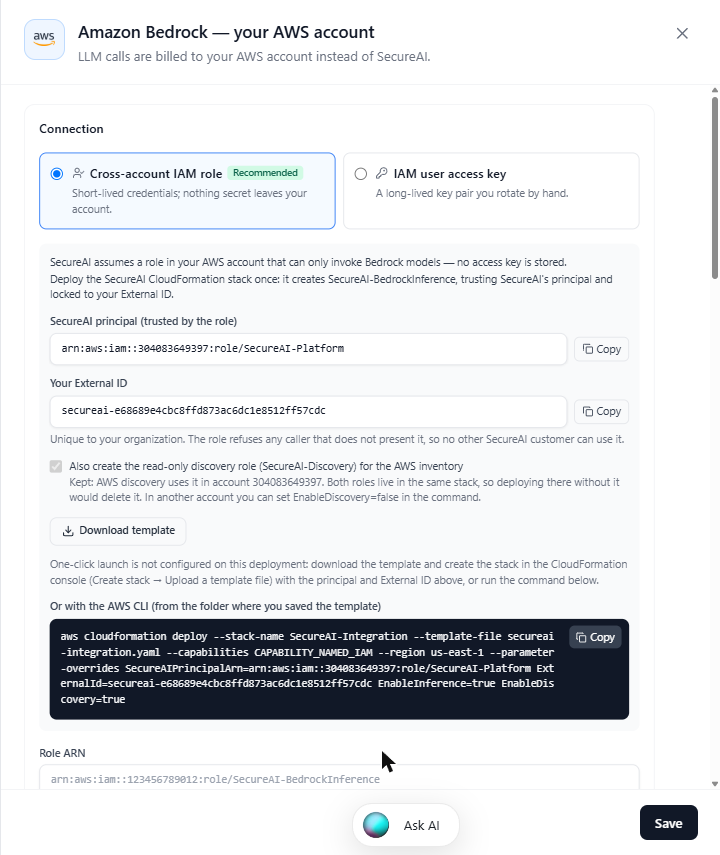
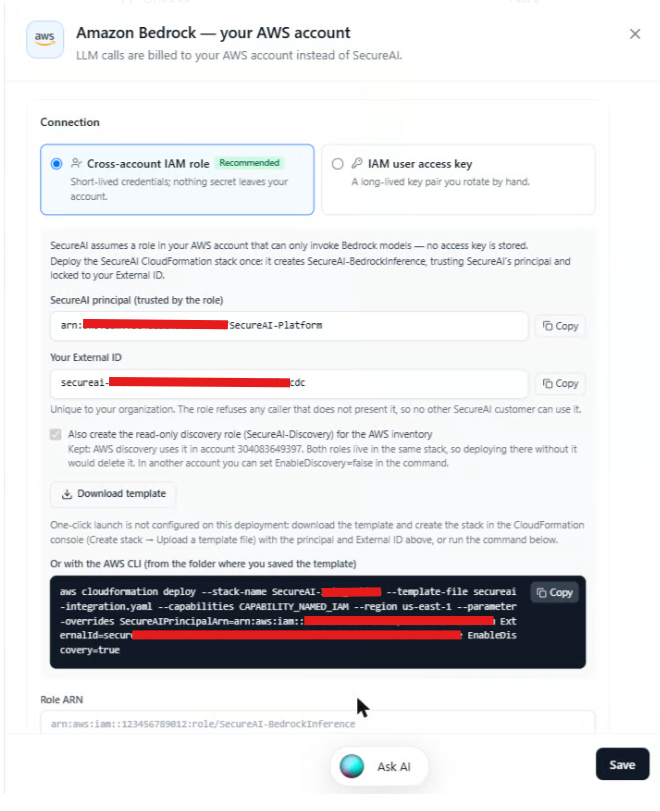
docs(cloud): capturas censuradas de Bedrock y sin capturas en AWS Discovery (SEC-323)
- Inferencia: 02, 03 y 04 reemplazadas por las versiones censuradas.
- Discovery: se quitan las 15 capturas y sus referencias (EN/ES).

diff --git a/integrations/cloud/aws-bedrock.md b/integrations/cloud/aws-bedrock.md
@@ -59,24 +59,14 @@ Nada se omite en silencio: lo que SecureAI no puede leer aparece con la acción 
 
 1. Vaya a **Administrador → Inventario → Conectores Cloud** y haga clic en **Conectar AWS** (o, si ya está conectado, en **Conexión de AWS**). Se abre **AWS Bedrock — Insights** en la pestaña **Conexión**.
 
-   ![Administrador → Inventario → Conectores Cloud](/img/cloud/aws-bedrock/01-menu-inventory-cloud-connectors.png)
-
-   ![Conectores Cloud con el botón Conectar AWS](/img/cloud/aws-bedrock/02-cloud-connectors-connect-aws.png)
-
 2. Deje seleccionado **Rol de SecureAI (recomendado)**. El panel muestra el **ARN del principal de SecureAI** y su **External ID (único de su tenant)**.
-
-   ![Pestaña Conexión: principal de SecureAI, External ID y el comando de CloudFormation](/img/cloud/aws-bedrock/03-step1-stack-identity.png)
 
 3. **Despliegue el stack de SecureAI en su cuenta de AWS**: con **Lanzar el stack en AWS** (cuando se ofrece), o con **Descargar la plantilla** y el comando de la AWS CLI que muestra el panel (ya incluye sus parámetros). Si su organización no permite CloudFormation, cree el rol `SecureAI-Discovery` a mano con la misma política de confianza que se muestra en la [guía de inferencia](/integrations/cloud/aws-bedrock-inference) y las acciones de la tabla de arriba sobre `"Resource": "*"`.
 4. Pegue la salida **`DiscoveryRoleArn`** del stack en **ARN del rol de descubrimiento** (por ejemplo `arn:aws:iam::123456789012:role/SecureAI-Discovery`).
 5. En **Regiones**, escriba las regiones donde viven sus recursos de Bedrock y AgentCore, separadas por coma (por ejemplo `us-east-1, eu-west-1`). IAM y Cost Explorer son globales.
 
-   ![ARN del rol de descubrimiento y regiones](/img/cloud/aws-bedrock/04-step2-role-arn-regions.png)
-
 6. Haga clic en **Probar y conectar**. SecureAI verifica la conexión con una lectura real antes de guardar, y lista lo que no pudo leer.
 7. Haga la primera sincronización: en **Administrador → Integraciones**, en la tarjeta **AWS Bedrock** (categoría **Nube**), haga clic en **Sincronizar ahora** (el ícono de actualizar). Después, SecureAI sincroniza solo cada 6 horas.
-
-   ![Sincronizar ahora en la tarjeta AWS Bedrock de Integraciones](/img/cloud/aws-bedrock/07-first-sync-integrations-card.png)
 
 <Warning>
 **Un solo stack por cuenta, para las dos conexiones.** Los roles de inferencia y de descubrimiento salen de la misma plantilla y del mismo nombre de stack (`SecureAI-Integration`). Si su conexión de [inferencia de Amazon Bedrock](/integrations/cloud/aws-bedrock-inference) ya usa el rol `SecureAI-BedrockInference` del stack, el panel lo indica y el comando que muestra conserva `EnableInference=true`: córralo tal cual. Si arma el comando usted, deje `EnableInference=true` en esa cuenta; si no, CloudFormation borra el rol de inferencia y corta su tráfico. Si el stack ya creó el rol de descubrimiento, saltee el paso 3.
@@ -96,8 +86,6 @@ Para leer todas las cuentas de su organización con una sola conexión:
 2. Despliegue la misma plantilla en las **cuentas miembro** con un **StackSet de CloudFormation**, con el **mismo External ID**. En las cuentas miembro solo hace falta el rol de descubrimiento: use `EnableInference=false`. El rol debe tener el mismo nombre en todas las cuentas miembro.
 3. Active **Modo AWS Organizations: leer todas las cuentas**.
 
-   ![Modo AWS Organizations y sus campos opcionales](/img/cloud/aws-bedrock/05-organizations-mode-fields.png)
-
 SecureAI lista las cuentas **ACTIVAS** de la organización y asume el rol directamente en cada cuenta miembro.
 
 | Campo opcional | Qué hace |
@@ -109,8 +97,6 @@ SecureAI lee hasta 50 cuentas por sincronización, primero la de administración
 
 Una cuenta que SecureAI no puede leer queda como **brecha**, y no se retira ni se poda nada de ella. Si el rol que pegó está en una cuenta miembro, la conexión lo indica y nombra la cuenta de administración donde debe desplegarlo.
 
-![Rol de una cuenta miembro con el modo Organizations: el error nombra la cuenta de administración](/img/cloud/aws-bedrock/06-organizations-member-account-error.png)
-
 ## Verificar
 
 - [Conectores Cloud](/discovery/cloud-sensors) lista los agentes descubiertos. Haga clic en **Conexión de AWS** para abrir **AWS Bedrock — Insights**, con estas pestañas:
@@ -120,18 +106,6 @@ Una cuenta que SecureAI no puede leer queda como **brecha**, y no se retira ni s
   - **Auditoría y logs**: eventos de CloudTrail de Bedrock y AgentCore.
   - **Conexión**: la configuración de arriba.
 - El [Inventario de NHI](/discovery/nhi-inventory) muestra los usuarios, access keys y roles.
-
-![Pestaña Uso y costos](/img/cloud/aws-bedrock/09-usage-costs.png)
-
-![Pestaña Modelos y despliegues](/img/cloud/aws-bedrock/10-models-deployments.png)
-
-![Acceso efectivo: simulador de políticas IAM](/img/cloud/aws-bedrock/12-effective-access.png)
-
-![Roles IAM y access keys](/img/cloud/aws-bedrock/13-iam-roles-access-keys.png)
-
-![Pestaña Auditoría y logs con eventos de CloudTrail de Bedrock](/img/cloud/aws-bedrock/14-audit-cloudtrail.png)
-
-![Identidades de AWS en el Inventario de NHI](/img/cloud/aws-bedrock/15-nhi-inventory.png)
 
 Si una sincronización falla (por ejemplo, porque se borró el stack), la tarjeta muestra el error y SecureAI reintenta con espera progresiva, conservando el último inventario. Una lectura parcial nunca retira agentes ni elimina identidades.
 
@@ -145,8 +119,6 @@ En **Identidad y acceso → Bedrock usado por fuera de SecureAI** se ve, por ide
 - los modelos que invocó y cuántas veces cada uno;
 - la cuenta y las regiones;
 - el total de llamadas y la última vez que se vio.
-
-![Bedrock usado por fuera de SecureAI y Quién puede invocar Bedrock](/img/cloud/aws-bedrock/11-bedrock-outside-secureai.png)
 
 También aparece como hallazgo en **Insights** (*Amazon Bedrock se está usando por fuera de SecureAI*), con severidad **crítica** cuando quien llama es una access key de usuario IAM o la cuenta root, y **moderada** cuando es un rol.
 
@@ -169,8 +141,6 @@ Si el panel dice **El descubrimiento no pudo leer todo**, cada línea indica la 
 | **Limitado por AWS** / **Parcial** | AWS limitó las solicitudes o la lectura quedó incompleta | Vuelva a sincronizar más tarde. |
 
 Cuando un listado está denegado pero las lecturas directas funcionan (por ejemplo, `bedrock:ListAgents` bloqueado y `GetAgent` permitido), SecureAI lo indica y lee los recursos que nombra CloudTrail.
-
-![El descubrimiento no pudo leer todo: acciones bloqueadas por una SCP](/img/cloud/aws-bedrock/08-coverage-gaps.png)
 
 ## Costo
 

diff --git a/en/integrations/cloud/aws-bedrock.md b/en/integrations/cloud/aws-bedrock.md
@@ -59,24 +59,14 @@ Nothing is skipped silently: whatever SecureAI cannot read is listed with the IA
 
 1. Go to **Admin → Inventory → Cloud Connectors** and click **Connect AWS** (or, once connected, **AWS connection**). It opens **AWS Bedrock — Insights** on its **Connection** tab.
 
-   ![Admin → Inventory → Cloud Connectors](/img/cloud/aws-bedrock/01-menu-inventory-cloud-connectors.png)
-
-   ![Cloud Connectors with the Connect AWS button](/img/cloud/aws-bedrock/02-cloud-connectors-connect-aws.png)
-
 2. Leave **SecureAI role (recommended)** selected. The panel shows the **SecureAI principal ARN** and your **External ID (unique to your tenant)**.
-
-   ![Connection tab: SecureAI principal, External ID and the CloudFormation command](/img/cloud/aws-bedrock/03-step1-stack-identity.png)
 
 3. **Deploy the SecureAI stack in your AWS account**: with **Launch Stack in AWS** (when offered), or with **Download template** and the AWS CLI command shown in the panel (it already includes your parameters). If your organization does not allow CloudFormation, create the `SecureAI-Discovery` role by hand with the same trust policy shown in the [inference guide](/en/integrations/cloud/aws-bedrock-inference) and the actions in the table above on `"Resource": "*"`.
 4. Paste the stack's **`DiscoveryRoleArn`** output into **Discovery role ARN** (for example `arn:aws:iam::123456789012:role/SecureAI-Discovery`).
 5. Under **Regions (comma-separated)**, enter the regions where your Bedrock and AgentCore resources live (for example `us-east-1, eu-west-1`). IAM and Cost Explorer are global.
 
-   ![Discovery role ARN and regions](/img/cloud/aws-bedrock/04-step2-role-arn-regions.png)
-
 6. Click **Test and connect**. SecureAI checks the connection with a real read before saving, and lists anything it could not read.
 7. Run the first sync: in **Admin → Integrations**, on the **AWS Bedrock** card (**Cloud** category), click **Sync now** (the refresh icon). After that, SecureAI syncs automatically every 6 hours.
-
-   ![Sync now on the AWS Bedrock card in Integrations](/img/cloud/aws-bedrock/07-first-sync-integrations-card.png)
 
 <Warning>
 **One stack per account, for both connections.** The inference and discovery roles come from the same template and the same stack name (`SecureAI-Integration`). When your [Amazon Bedrock inference](/en/integrations/cloud/aws-bedrock-inference) connection already uses the stack's `SecureAI-BedrockInference` role, the panel says so and the command it shows keeps `EnableInference=true`: run that command as shown. If you build the command yourself, keep `EnableInference=true` in that account, or CloudFormation deletes the inference role and stops your inference traffic. If the stack already created the discovery role, skip step 3.
@@ -96,8 +86,6 @@ To read every account in your organization with a single connection:
 2. Deploy the same template to the **member accounts** with a **CloudFormation StackSet**, with the **same External ID**. Member accounts only need the discovery role: use `EnableInference=false`. The role must have the same name in every member account.
 3. Turn on **AWS Organizations mode — read every account**.
 
-   ![AWS Organizations mode and its optional fields](/img/cloud/aws-bedrock/05-organizations-mode-fields.png)
-
 SecureAI lists the organization's **ACTIVE** accounts and assumes the role directly in each member account.
 
 | Optional field | What it does |
@@ -109,8 +97,6 @@ SecureAI reads up to 50 accounts per sync, the management account first. CloudTr
 
 An account SecureAI cannot read is listed as a **gap**, and nothing of it is retired or pruned. If the role you pasted is in a member account, the connection says so and names the management account to deploy it in.
 
-![A member-account role pasted in Organizations mode: the error names the management account](/img/cloud/aws-bedrock/06-organizations-member-account-error.png)
-
 ## Verify
 
 - [Cloud Connectors](/en/discovery/cloud-sensors) lists the discovered agents. Click **AWS connection** to open **AWS Bedrock — Insights**, with these tabs:
@@ -120,18 +106,6 @@ An account SecureAI cannot read is listed as a **gap**, and nothing of it is ret
   - **Audit & Logs**: Bedrock and AgentCore CloudTrail events.
   - **Connection**: the setup above.
 - The [NHI Inventory](/en/discovery/nhi-inventory) shows the users, access keys, and roles.
-
-![Usage & Costs tab](/img/cloud/aws-bedrock/09-usage-costs.png)
-
-![Models & Deployments tab](/img/cloud/aws-bedrock/10-models-deployments.png)
-
-![Effective access — IAM policy simulator](/img/cloud/aws-bedrock/12-effective-access.png)
-
-![IAM roles and IAM access keys](/img/cloud/aws-bedrock/13-iam-roles-access-keys.png)
-
-![Audit & Logs tab with Bedrock CloudTrail events](/img/cloud/aws-bedrock/14-audit-cloudtrail.png)
-
-![AWS identities in the NHI Inventory](/img/cloud/aws-bedrock/15-nhi-inventory.png)
 
 If a sync fails (for example, the stack was deleted), the card shows the error and SecureAI retries with backoff, keeping the last inventory. A partial read never retires agents or removes identities.
 
@@ -145,8 +119,6 @@ Under **Identity & Access → Bedrock used outside SecureAI** you see, per ident
 - the models it invoked and how many times each;
 - the account and regions;
 - the total calls and when it was last seen.
-
-![Bedrock used outside SecureAI and Who can invoke Bedrock](/img/cloud/aws-bedrock/11-bedrock-outside-secureai.png)
 
 It is also an **Insights** finding (*Amazon Bedrock is being used outside SecureAI*): **critical** when the caller is an IAM user access key or the root account, **moderate** when it is a role.
 
@@ -169,8 +141,6 @@ If the panel says **Discovery could not read everything**, each line names the s
 | **Throttled** / **Partial** | AWS throttled the requests or the read was incomplete | Sync again later. |
 
 When a listing is denied but direct reads work (for example, `bedrock:ListAgents` blocked and `GetAgent` allowed), SecureAI says so and reads the resources CloudTrail names.
-
-![Discovery could not read everything: actions blocked by an SCP](/img/cloud/aws-bedrock/08-coverage-gaps.png)
 
 ## Cost
 
